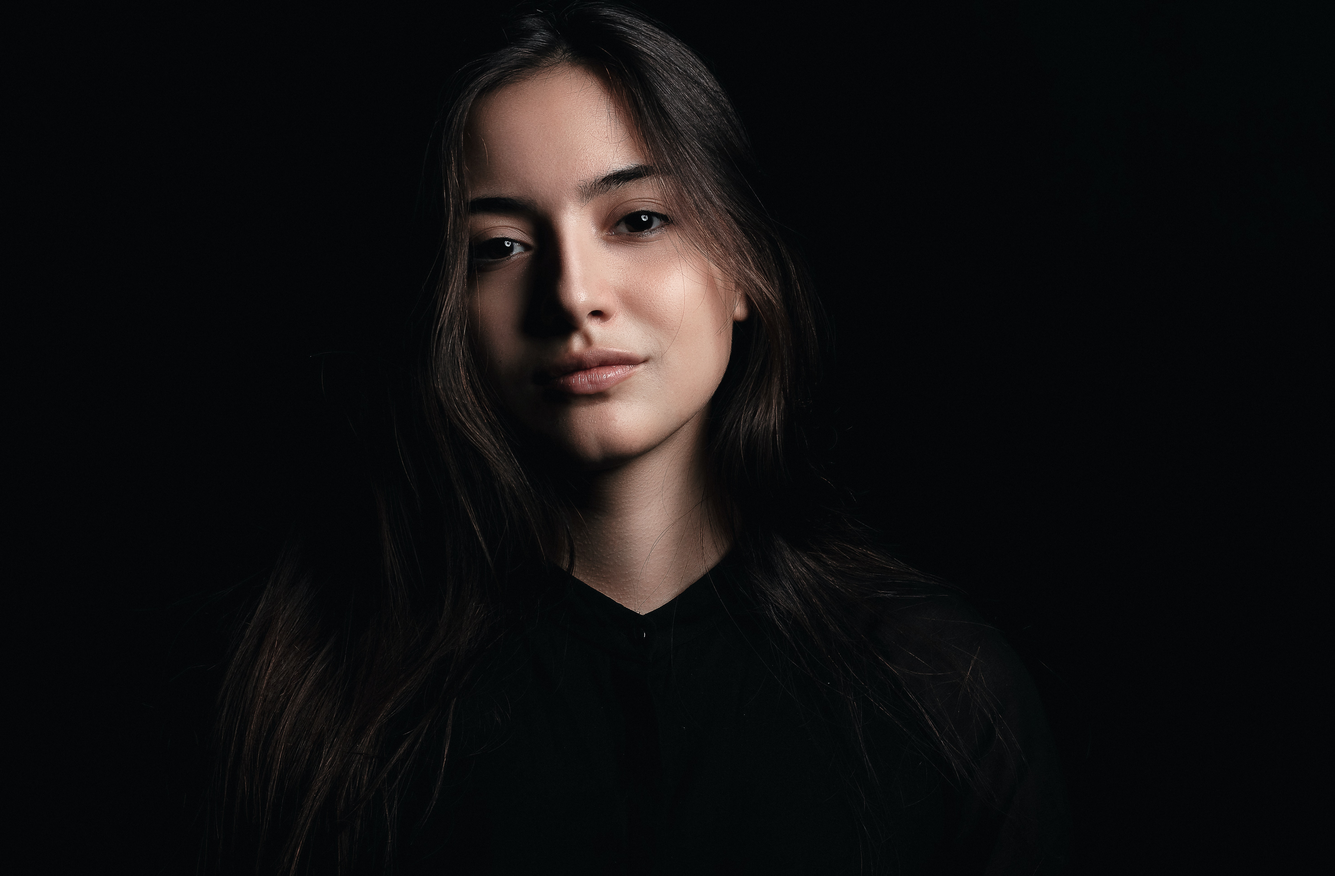
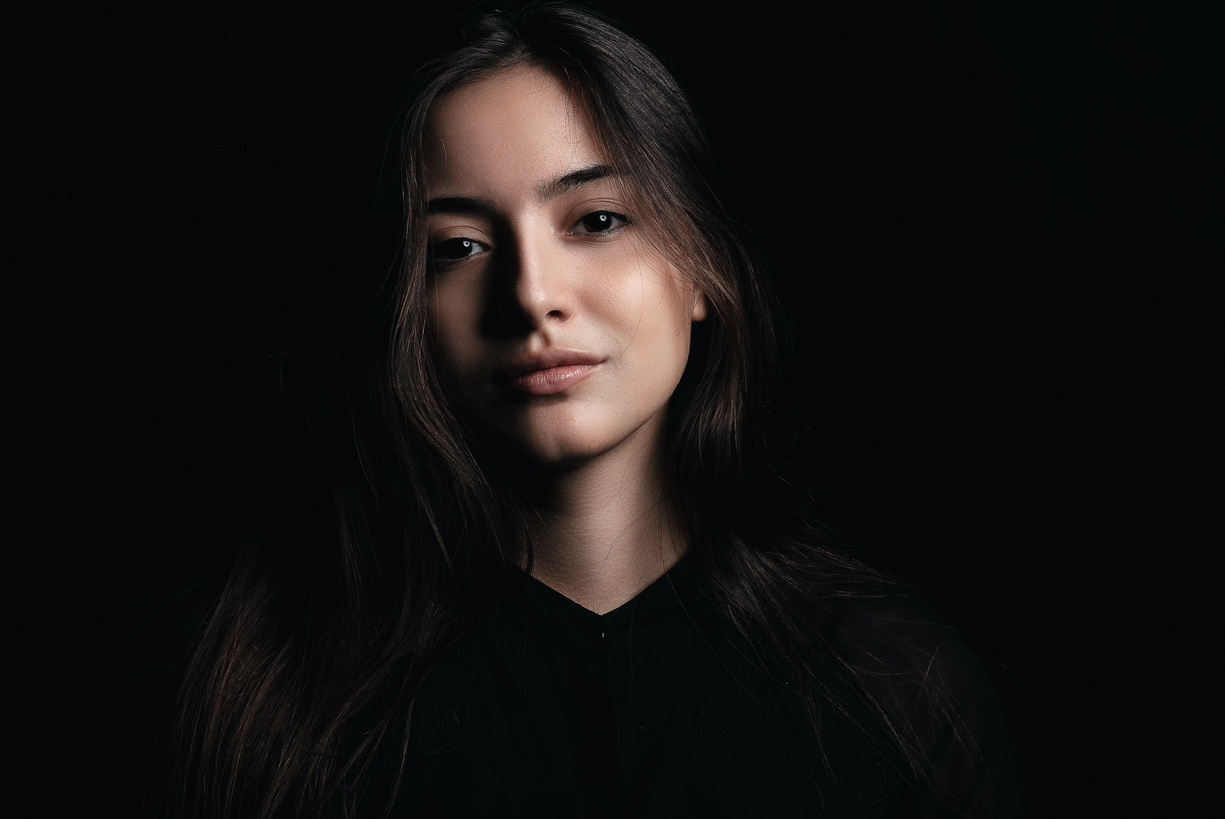
global variable suppress to allow sort media, argument photographer added to media argument in addSortEventListener function. CSS modified for photogrphers photo styling in index.html and photographer.html : dynamic class creation deleted from getUserCardDOM function

Changed region(s): [[0.3107, 0.0, 0.6525, 0.7459], [0.1554, 0.7459, 0.2486, 0.9323]]

diff --git a/src/utils/sort.js b/src/utils/sort.js
@@ -1,4 +1,4 @@
-import { displayMedia, globalPhotographer } from '../photographer.js'; // Importer displayMedia et globalPhotographer
+import { displayMedia} from '../photographer.js'; // Importer displayMedia et globalPhotographer
 
 // Fonction pour trier les médias selon un critère donné
 export function sortMediaBy(criteria, medias) {
@@ -25,10 +25,10 @@ export function sortMediaBy(criteria, medias) {
 }
 
 // Fonction pour ajouter un écouteur d'événements sur l'élément de tri
-export function addSortEventListener() {
+export function addSortEventListener(medias) {
   const orderBySelect = document.getElementById('orderBy');
   orderBySelect.addEventListener('change', (event) => {
-    if (!globalPhotographer || !globalPhotographer.medias) {
+    if (!medias) {
       console.error('globalPhotographer or medias not defined');
       return;
     }
@@ -37,19 +37,19 @@ export function addSortEventListener() {
     switch (event.target.value) {
       case 'Date':
         // Trier les médias par date
-        sortedMedias = sortMediaBy('date', globalPhotographer.medias);
+        sortedMedias = sortMediaBy('date', medias);
         break;
       case 'Popularité':
         // Trier les médias par popularité (likes)
-        sortedMedias = sortMediaBy('likes', globalPhotographer.medias);
+        sortedMedias = sortMediaBy('likes', medias);
         break;
       case 'Titre':
         // Trier les médias par titre
-        sortedMedias = sortMediaBy('title', globalPhotographer.medias);
+        sortedMedias = sortMediaBy('title', medias);
         break;
       default:
         // Par défaut, trier par popularité
-        sortedMedias = sortMediaBy('likes', globalPhotographer.medias);
+        sortedMedias = sortMediaBy('likes', medias);
     }
     // Afficher les médias triés
     displayMedia(sortedMedias);

diff --git a/src/photographer.js b/src/photographer.js
@@ -5,7 +5,7 @@ import { showLightbox, mediaItems } from './utils/lightbox.js';
 import { addSortEventListener, sortMediaBy } from './utils/sort.js'; 
 import { addLikeListeners, updateTotalLikes, insertPhotographerPrice } from './utils/likes.js'; 
 
-let globalPhotographer; 
+
 
 // Récupération asynchrone et d'affichage des détails du photographe
 async function fetchAndDisplayPhotographerDetails() {
@@ -13,12 +13,11 @@ async function fetchAndDisplayPhotographerDetails() {
   if (photographerId) {
     const { photographer, media } = await getPhotographerAndMedias(parseInt(photographerId, 10)); 
     if (photographer) {
-      globalPhotographer = { ...photographer, medias: media }; 
       updatePhotographerDetails(photographer); 
       const sortedMedia = sortMediaBy('likes', media); 
       displayMedia(sortedMedia); 
       document.getElementById('orderBy').value = 'Popularité'; 
-      addSortEventListener(); 
+      addSortEventListener( media ); 
       updateTotalLikes(); 
       insertPhotographerPrice(photographer.price); 
     } else {
@@ -76,4 +75,4 @@ function createMediaCard(mediaItem, index) {
 
 
 
-export { displayMedia, globalPhotographer }; 
+export { displayMedia}; 

diff --git a/assets/css/photographerPage.css b/assets/css/photographerPage.css
@@ -77,48 +77,18 @@ transform: scale(1.1);
   padding: 5px;
   }
 
-.photograph-header a .photograph-243-img{
-  object-fit: cover;
-  width: 300px;
-  transform: translateY(-81px) translateX(-50px);
-}
+.photograph-header img {
+    display: block;
+    width: 290px;
+    height: 250px;
+} 
 
-.photograph-930-img{
-object-fit: cover;
-width: 530px;
-transform: translateX(-160px) translateY(-40px);
-}
-
-.photograph-82-img{
-object-fit: cover;
-width: 250px;
-object-position: 50% 50%;
-transform: translateY(-10px);
-}
-
-.photograph-527-img{
-object-fit: cover;
-width: 250px;
-object-position: 50% 50%;
-transform: translateX(-20px) translateY(-60px); 
-}
-
-.photograph-925-img{
-object-fit: cover;
-width: 500px;
-object-position: 50% 40%;
-transform: translateX(-150px) translateY(-20px);
-}
-
-.photograph-195-img{
-object-fit: cover;
-width: 480px;
-object-position: 0% 60%;
-transform: translateX(-135px);
-}
-
-
-
+  .photograph-img{
+    object-fit: cover;
+    width: 280px;
+    object-position: 60% 60%;
+    transform: translateX(-31px);
+  }
 
 
 @media screen and (max-width: 1160px) {

diff --git a/assets/css/firstPage.css b/assets/css/firstPage.css
@@ -30,50 +30,16 @@
 .photographer_section article img {
     display: block;
     width: 290px;
-    height: 270px;
+    height: 250px;
 }
 
-.photographer-243 .photographer-img{
+.photographer-img{
 object-fit: cover;
-width: 300px;
+width: 250px;
 object-position: 60% 60%;
-transform: translateX(-41px);
+transform: translateX(-31px);
 }
 
-.photographer-930 .photographer-img{
-object-fit: cover;
-width: 530px;
-object-position: 70% 50%;
-transform: translateX(-160px);
-}
-
-.photographer-82 .photographer-img{
-object-fit: cover;
-width: 250px;
-object-position: 0% 50%;
-transform: translateY(-25px);
-}
-
-.photographer-527 .photographer-img{
-  object-fit: cover;
-width: 250px;
-object-position: 50% 50%;
-transform: translateX(-20px)
-}
-
-.photographer-925 .photographer-img{
-object-fit: cover;
-width: 500px;
-object-position: 50% 40%;
-transform: translateX(-150px);
-}
-
-.photographer-195 .photographer-img{
-object-fit: cover;
-width: 480px;
-object-position: 0% 60%;
-transform: translateX(-135px);
-}
 
 .photograph-header__bloc-titre{
   margin-bottom: 30px;

diff --git a/src/models/photographer.js b/src/models/photographer.js
@@ -29,7 +29,7 @@ class Photographer {
         <img 
           src="${this.picture}" 
           alt="${this.name}" 
-          class="photograph-img photograph-${this.id}-img"
+          class="photograph-img"
         />
       </a>
     `;
@@ -42,7 +42,7 @@ class Photographer {
     article.classList.add('photographer-article', `photographer-${this.id}`);
     article.innerHTML = `
       <a href="photographer.html?id=${this.id}">
-        <img class="photographer-img photographer-${this.id}-img" src="${this.picture}" alt="Visitez la page de ${this.name}">
+        <img class="photographer-img" src="${this.picture}" alt="Visitez la page de ${this.name}">
       </a>
       <a href="photographer.html?id=${this.id}" class="photograph-name-first-page"><h2 class="photograph-name photographer-${this.id}-name">${this.name}</h2></a>
       <h3 class="photograph-location photographer-${this.id}-location">${this.city}, ${this.country}</h3>

diff --git a/src/models/VideoMedia.js b/src/models/VideoMedia.js
@@ -17,7 +17,7 @@ class VideoMedia extends Media {
           <p class="photo-details">${this.title}</p>
           <div class="likes">
             <p class="photo-details like-count" data-likes="${this.likes}">${this.likes}</p>
-            <i class="fas fa-heart heart-icon like-button" data-id="${this.id}" data-liked="false"></i>
+            <i class="fas fa-heart heart-icon like-button" data-id="${this.id}" data-liked="false" aria-label="likes"></i>
           </div>
         </figcaption>
       </figure>`;

diff --git a/src/models/ImageMedia.js b/src/models/ImageMedia.js
@@ -17,7 +17,7 @@ class ImageMedia extends Media {
           <p class="photo-details">${this.title}</p>
           <div class="likes">
             <p class="photo-details like-count" data-likes="${this.likes}">${this.likes}</p>
-            <i class="fa-solid fa-heart like-button" data-id="${this.id}" data-liked="false"></i>
+            <i class="fa-solid fa-heart like-button" data-id="${this.id}" data-liked="false" aria-label="likes"></i>
           </div>
         </figcaption>
       </figure>`;

diff --git a/photographer.html b/photographer.html
@@ -80,7 +80,7 @@
         </header> 
         <p class="message-sent">Message envoyé à</p>
         <p class="photographer-name"></p>
-        <button class="close-modal-end" tabindex="0" aria-label="Close">Fermer</button>
+        <button class="close-modal-end" tabindex="0" aria-label="Close Contact form">Fermer</button>
       </div>
     </div>
     
